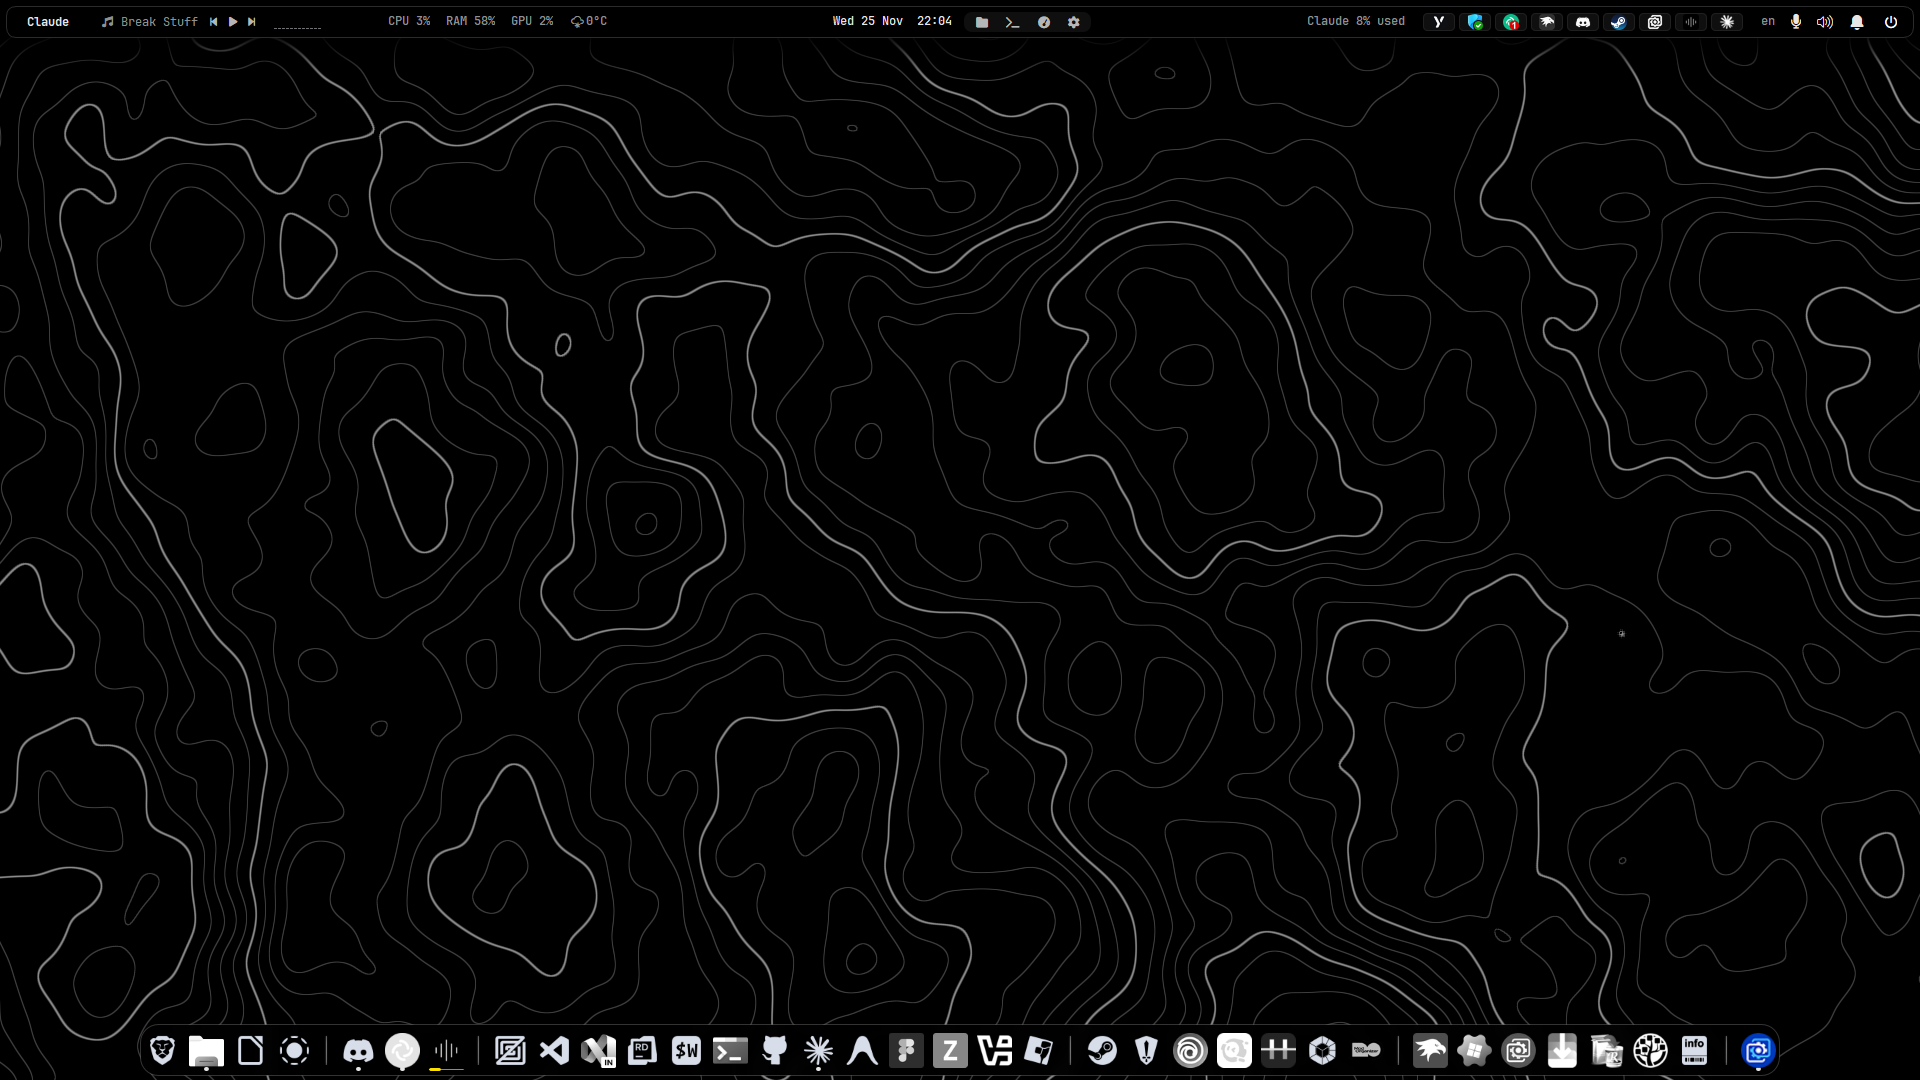
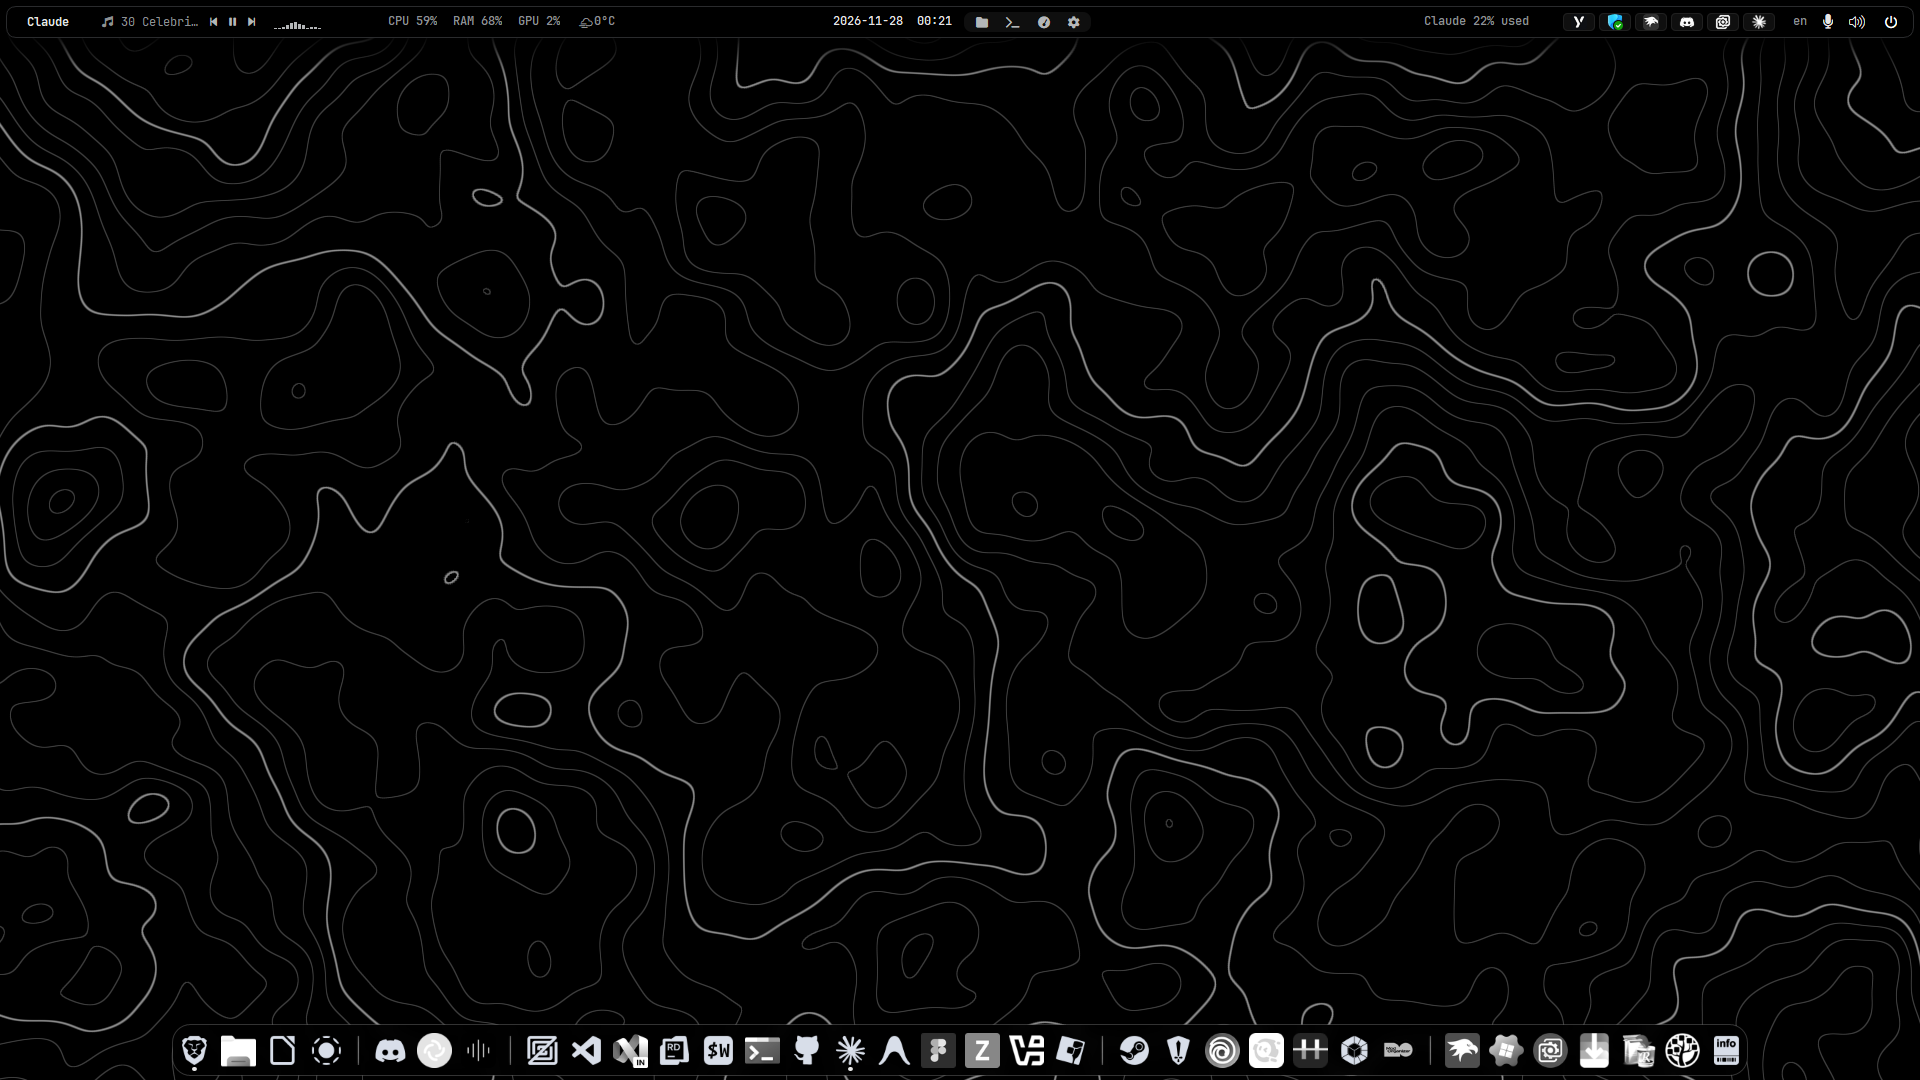
docs(screenshots): retake the Windows shots with the 2026-11-28 clock

diff --git a/docs/screenshots/README.md b/docs/screenshots/README.md
@@ -1,20 +1,23 @@
 # Screenshots
 
 Reference shots of the finished **OLED Monochrome** setup, taken with no windows on screen
-(Windows: Show Desktop). Windows shots: 25 November 2026 (the search-only Start menu: 22 November);
-laptop: 27 November 2026; phone: 22 November 2026. Wallpaper: [OLED Span](../../strata/40-apps/oled-span/) (contours style) everywhere;
+(Windows: Show Desktop). Windows shots: 28 November 2026 (the dock: 25 November, the search-only Start
+menu: 22 November); laptop: 27 November 2026; phone: 22 November 2026. Both top bars show the date
+as `2026-11-28`. Wallpaper: [OLED Span](../../strata/40-apps/oled-span/) (contours style) everywhere;
 it only draws greys. Use them to check a rebuild (the
 [`INSTALL-WITH-AI.md`](../../INSTALL-WITH-AI.md) prompt tells the agent to compare against them).
 
 Taking them with an agent: the Claude desktop app draws a warm glowing frame around the main screen
 while it controls the screen, and it stays for the rest of that turn, so capture in a turn that
-hasn't used screen control (and check the edges are pure black).
+hasn't used screen control (and check the edges are pure black). The 28 November Windows shots were
+grabbed with .NET `Graphics.CopyFromScreen` from a DPI-aware PowerShell, after
+`Shell.Application.MinimizeAll()` (then `UndoMinimizeAll()`), so no screen control was involved.
 
 ## Windows 11 desktop
 
 | File | What it shows |
 |---|---|
-| [`windows-desktop.png`](windows-desktop.png) | Main monitor: the floating YASB top bar (app name and paused player with its visualizer from `menubar.exe`; CPU, RAM, GPU and weather; centred clock and quick icons; Claude usage, tray, power); the Windhawk dock with grouped, monochrome icons. |
+| [`windows-desktop.png`](windows-desktop.png) | Main monitor: the floating YASB top bar (app name and the playing track with its visualizer from `menubar.exe`; CPU, RAM, GPU and weather; centred `2026-11-28 00:21` clock and quick icons; Claude usage, tray, power); the Windhawk dock with grouped, monochrome icons. |
 | [`windows-top-bar.png`](windows-top-bar.png) | The top bar on its own (1920x44: the bar floats 6 px from the edges). |
 | [`windows-dock.png`](windows-dock.png) | The dock on its own: separators between app groups, running dots. |
 | [`windows-start-search.png`](windows-start-search.png) | The search-only Start menu: black pane, dark grey field, monochrome search glyph. |
